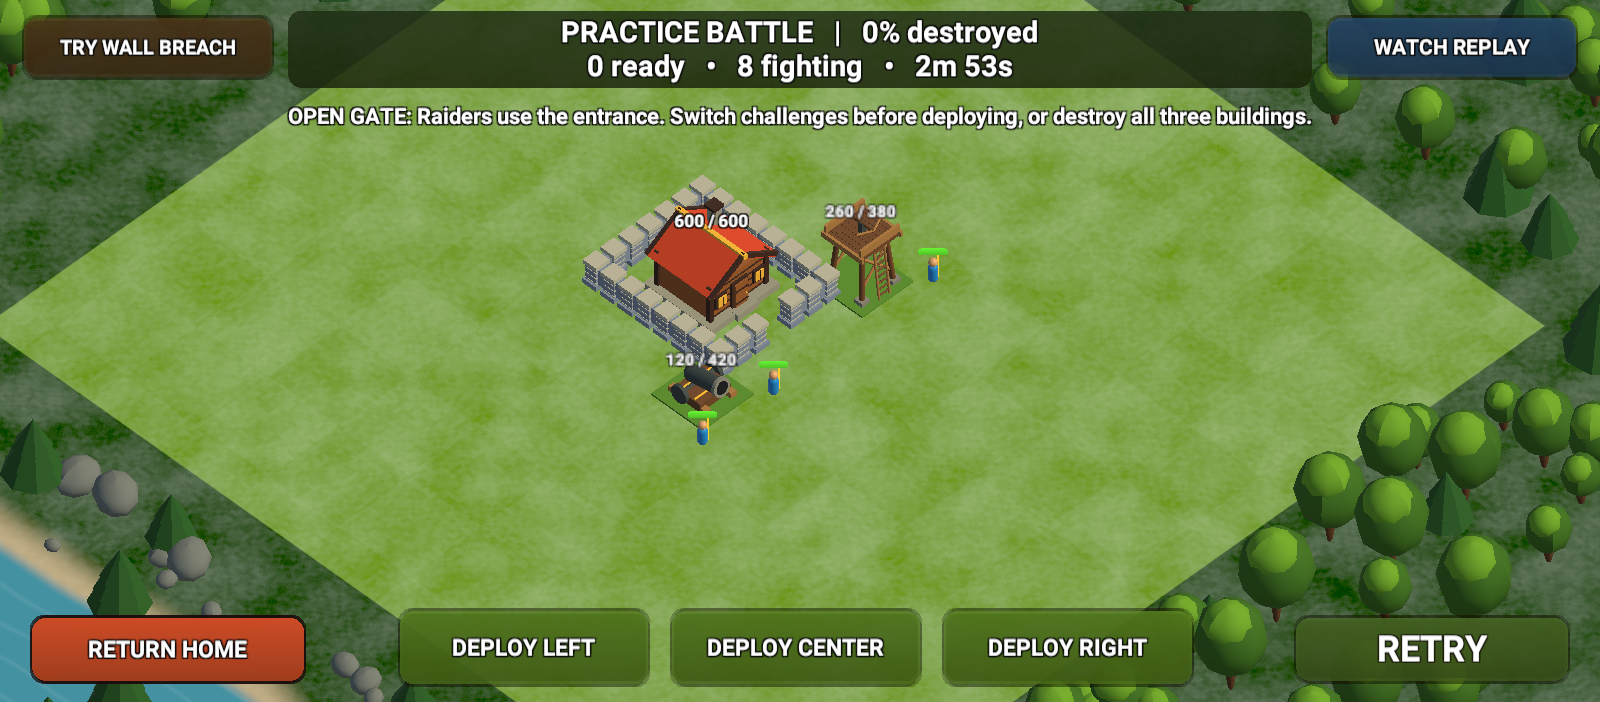
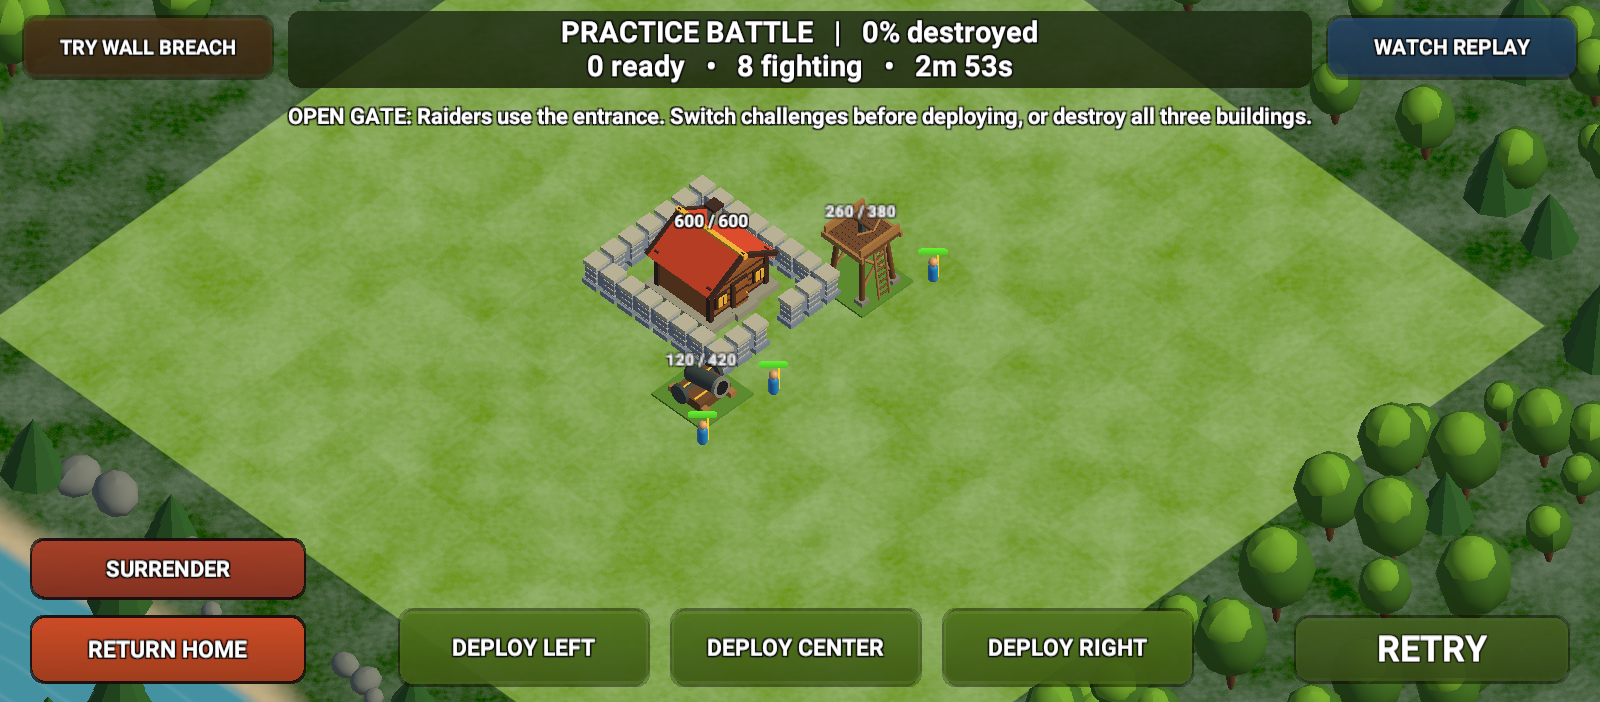
Add practice star scoring, detailed results and replayable surrender

Changed region(s): [[0.0, 0.7479, 0.2188, 0.8675]]

diff --git a/Assets/Editor/PracticeBattleValidation.cs b/Assets/Editor/PracticeBattleValidation.cs
@@ -41,6 +41,7 @@ public static class PracticeBattleValidation
     {
         NavigationChecks(false);NavigationChecks(true);
         ReplayChecks();
+        ScoreChecks();
         var first=new PracticeBattle();var second=new PracticeBattle();
         Check(!first.Deploy(-1) && !first.Deploy(3) && first.Remaining==8,"Invalid deployment lanes");
         for(int i=0;i<8;i++){Check(first.Deploy(i%3) && second.Deploy(i%3),"Legal deployments");}
@@ -52,7 +53,7 @@ public static class PracticeBattleValidation
             foreach(var strike in first.Strikes){if(strike.From<100)defenseHit=true;else raiderHit=true;}
         }
         Check(defenseHit && raiderHit,"Both sides attack");
-        Check(first.Outcome==PracticeOutcome.Victory && first.Destruction==100,"Practice encounter can be won");
+        Check(first.Outcome==PracticeOutcome.Victory && first.Destruction==100 && first.Stars==3,"Practice encounter can be won with three stars");
         string before=Snapshot(first);first.Step();first.Surrender();Check(Snapshot(first)==before && !first.Deploy(1),"Terminal battle cannot mutate");
         var idle=new PracticeBattle();for(int i=0;i<1800;i++)idle.Step();Check(idle.Outcome==PracticeOutcome.Timeout && idle.Destruction==0,"Undeployed army times out");
         var surrender=new PracticeBattle();surrender.Deploy(1);surrender.Surrender();Check(surrender.Outcome==PracticeOutcome.Surrendered && !surrender.Deploy(1),"Surrender closes commands");
@@ -81,6 +82,21 @@ public static class PracticeBattleValidation
         Check(battle.Outcome==PracticeOutcome.Victory && entered,"Route reaches enclosed hall and replans after breach");
         Check(wallHit==sealedWalls,"Open entrance is preferred; sealed walls require a breach");
         Check(battle.Destruction==100,"Surviving walls do not prevent full destruction score");
+    }
+    static void ScoreChecks()
+    {
+        int[] expected={0,1,0,2,0,2,1,3};
+        for(int mask=0;mask<8;mask++)
+        {
+            var battle=new PracticeBattle();
+            for(int i=0;i<3;i++)if((mask&(1<<i))!=0)battle.Buildings[i].HitPoints=0;
+            Check(battle.Stars==expected[mask],"Independent Town Hall, half-destruction and full-destruction stars");
+            foreach(var b in battle.Buildings)if(b.Kind=="Wall")b.HitPoints=0;
+            Check(battle.Stars==expected[mask],"Wall destruction does not award stars");
+            battle.Surrender();Check(battle.Stars==expected[mask],"Surrender retains earned score");
+        }
+        var army=new PracticeBattle();army.Deploy(0);army.Deploy(1);army.Raiders[0].HitPoints=0;
+        Check(army.Survivors==1 && army.Raiders.Count==2 && army.Remaining==6,"Results distinguish deployed, survivors and reserves");
     }
     static void ReplayChecks()
     {
@@ -142,9 +158,11 @@ public static class PracticeBattleValidation
             {
                 if(game.CurrentPracticeBattle.Outcome==PracticeOutcome.Running)return;
                 Check(game.CurrentPracticeBattle.Outcome==PracticeOutcome.Victory,"Real-time practice victory");Capture("practice-results.png");
+                Check(GameObject.Find("Practice Results Text").GetComponent<Text>().text.Contains("3 / 3 STARS"),"Victory results display stars");
                 Check(JsonUtility.ToJson(game.State)==SessionState.GetString("PracticeBattle.Home","") && PlayerPrefs.GetString(VillageSave.Key)==SessionState.GetString("PracticeBattle.Save",""),"Battle cannot mutate home or saved economy");
                 Click("Watch Practice Replay");Check(game.WatchingPracticeReplay && !GameObject.Find("Deploy Raider 0").GetComponent<Button>().interactable,"Replay locks manual deployment");
                 int count=game.CurrentPracticeBattle.Raiders.Count;game.DeployPracticeRaider(1);Check(count==game.CurrentPracticeBattle.Raiders.Count,"Direct deployment rejected during replay");
+                game.SurrenderPracticeBattle();Check(game.CurrentPracticeBattle.Outcome==PracticeOutcome.Running,"Surrender cannot interrupt replay");
                 SessionState.SetInt("PracticeBattle.Step",3);return;
             }
             if(step==3)
@@ -180,8 +198,22 @@ public static class PracticeBattleValidation
                 Check(game.CurrentPracticeBattle.SealedEnclosure,"Retry retains selected challenge");
                 Click("Return From Practice");Check(!game.PracticeOpen && !game.cameraController.InputBlocked && GameObject.Find("Shop")!=null,"Return restores village and camera");
                 Check(JsonUtility.ToJson(game.State)==SessionState.GetString("PracticeBattle.Home",""),"Returning does not change village state");
-                Click("Attack Menu");Click("Deploy Raider 0");Click("Return From Practice");Check(!game.PracticeOpen,"Early return abandons encounter safely");
-                Finish("PASS: challenge selection and active-attack guard; sealed challenge victory and wall destruction; challenge-aware retry/replay; per-tick replay equality for open/sealed layouts; timed commands; surrender/timeout replay; state mismatch detection; replay UI and deployment lock; replay save preservation; entrance routing; sealed-wall breach and replanning; footprint collision checks; walls excluded from victory score; fixed-tick repeatability; deployment limits; defense range/damage/cooldown; both sides attack; victory/defeat/timeout/surrender; terminal-state guard; real-time Attack/deploy/results/retry/return UI; exact home-state and save preservation. Unity "+Application.unityVersion+". No rewards, multiplayer or phone validation.",0);
+                Click("Attack Menu");Click("Deploy Raider 0");SessionState.SetInt("PracticeBattle.Step",7);return;
+            }
+            if(step==7)
+            {
+                if(game.CurrentPracticeBattle.Tick<15)return;
+                Click("Surrender Practice");Check(game.PracticeOpen && game.CurrentPracticeBattle.Outcome==PracticeOutcome.Surrendered,"Surrender opens results without leaving battle");
+                Check(GameObject.Find("Practice Results Text").GetComponent<Text>().text.Contains("1 deployed"),"Surrender results show deployed army");
+                Capture("practice-surrender.png");Click("Watch Practice Replay");SessionState.SetInt("PracticeBattle.Step",8);return;
+            }
+            if(step==8)
+            {
+                if(game.CurrentPracticeBattle.Outcome==PracticeOutcome.Running)return;
+                Check(game.PracticeReplayMatches && game.CurrentPracticeBattle.Outcome==PracticeOutcome.Surrendered,"Surrendered UI replay matches original");
+                Click("Retry Practice");Check(GameObject.Find("Practice Results")==null && GameObject.Find("Surrender Practice")!=null,"Retry hides results and restores surrender");
+                Click("Deploy Raider 0");Click("Return From Practice");Check(!game.PracticeOpen,"Early return abandons encounter safely");
+                Finish("PASS: all star combinations and wall exclusion; survivor counts; victory results; surrender/results/replay/retry UI; replay surrender guard; challenge selection and active-attack guard; sealed challenge victory and wall destruction; challenge-aware retry/replay; per-tick replay equality for open/sealed layouts; timed commands; surrender/timeout replay; state mismatch detection; replay UI and deployment lock; replay save preservation; entrance routing; sealed-wall breach and replanning; footprint collision checks; walls excluded from victory score; fixed-tick repeatability; deployment limits; defense range/damage/cooldown; both sides attack; victory/defeat/timeout/surrender; terminal-state guard; real-time Attack/deploy/results/retry/return UI; exact home-state and save preservation. Unity "+Application.unityVersion+". No rewards, multiplayer or phone validation.",0);
             }
         }
         catch(Exception e){Debug.LogException(e);Finish("FAIL: "+e,1);}

diff --git a/Assets/Scripts/UI/VillagePracticeBattle.cs b/Assets/Scripts/UI/VillagePracticeBattle.cs
@@ -10,8 +10,9 @@ namespace Kingdoms.UI
         PracticeReplay practiceReplay;
         GameObject practiceWorld,practiceCanvas;
         RectTransform practiceSafe;
-        Text practiceStatus,practiceInstructions;
-        Button practiceRetry,practiceWatch,practiceChallenge;
+        Text practiceStatus,practiceInstructions,practiceResultsText;
+        GameObject practiceResults;
+        Button practiceRetry,practiceWatch,practiceChallenge,practiceSurrender;
         bool practiceSealedChallenge;
         readonly List<Button> practiceDeployButtons=new List<Button>();
         readonly Dictionary<int,GameObject> practiceModels=new Dictionary<int,GameObject>();
@@ -48,6 +49,10 @@ namespace Kingdoms.UI
                 ReferenceText(button.GetComponentInChildren<Text>(),23,Color.white);button.onClick.AddListener(()=>DeployPracticeRaider(lane));practiceDeployButtons.Add(button);
             }
             var back=Button("Return From Practice",practiceSafe,"RETURN HOME",new Vector2(.02f,.03f),new Vector2(.19f,.12f),new Color(.8f,.3f,.15f));ReferenceText(back.GetComponentInChildren<Text>(),23,Color.white);back.onClick.AddListener(ClosePracticeBattle);
+            practiceSurrender=Button("Surrender Practice",practiceSafe,"SURRENDER",new Vector2(.02f,.15f),new Vector2(.19f,.23f),new Color(.65f,.25f,.16f));
+            ReferenceText(practiceSurrender.GetComponentInChildren<Text>(),22,Color.white);practiceSurrender.onClick.AddListener(SurrenderPracticeBattle);
+            practiceResults=Panel("Practice Results",practiceSafe,new Vector2(.25f,.17f),new Vector2(.75f,.39f),new Color(.12f,.18f,.08f,.96f)).gameObject;
+            practiceResultsText=Label("Practice Results Text",practiceResults.transform,"",25,Color.white);ReferenceText(practiceResultsText,25,Color.white);
             practiceRetry=Button("Retry Practice",practiceSafe,"RETRY",new Vector2(.81f,.03f),new Vector2(.98f,.12f),new Color(.45f,.64f,.24f));practiceRetry.onClick.AddListener(ResetPracticeBattle);
             practiceWatch=Button("Watch Practice Replay",practiceSafe,"WATCH REPLAY",new Vector2(.83f,.89f),new Vector2(.985f,.975f),new Color(.22f,.45f,.65f));
             ReferenceText(practiceWatch.GetComponentInChildren<Text>(),21,Color.white);practiceWatch.onClick.AddListener(WatchPracticeReplay);
@@ -66,6 +71,11 @@ namespace Kingdoms.UI
 
         public void ResetPracticeBattle()
         {StartPracticeBattle(null);}
+        public void SurrenderPracticeBattle()
+        {
+            if(practiceBattle==null || WatchingPracticeReplay || practiceBattle.Outcome!=PracticeOutcome.Running)return;
+            practiceBattle.Surrender();RefreshPracticeBattle();
+        }
         public bool SelectPracticeChallenge(bool sealedWalls)
         {
             if(practiceBattle==null || (practiceBattle.Outcome==PracticeOutcome.Running && (WatchingPracticeReplay || practiceBattle.Remaining<PracticeBattle.ArmySize)))return false;
@@ -161,6 +171,15 @@ namespace Kingdoms.UI
             foreach(var button in practiceDeployButtons)button.interactable=running && !WatchingPracticeReplay && practiceBattle.Remaining>0;
             practiceRetry.interactable=!running;
             practiceWatch.interactable=!running;
+            practiceSurrender.gameObject.SetActive(running && !WatchingPracticeReplay);
+            practiceResults.SetActive(!running);
+            if(!running)
+            {
+                practiceResults.transform.SetAsLastSibling();
+                practiceResultsText.text=(practiceSealedChallenge ? "WALL BREACH" : "OPEN GATE")+"  |  "+practiceBattle.Stars+" / 3 STARS"
+                    +"\n"+practiceBattle.DestroyedBuildings+" / "+practiceBattle.TotalBuildings+" buildings destroyed  |  "+practiceBattle.Destruction+"%"
+                    +"\n"+practiceBattle.Raiders.Count+" deployed  |  "+practiceBattle.Survivors+" survived  |  "+Duration(practiceBattle.Tick/10)+" elapsed";
+            }
             practiceChallenge.interactable=!running || (!WatchingPracticeReplay && practiceBattle.Remaining==PracticeBattle.ArmySize);
             practiceChallenge.GetComponentInChildren<Text>().text=practiceSealedChallenge ? "TRY OPEN GATE" : "TRY WALL BREACH";
             if(!running)practiceInstructions.text=WatchingPracticeReplay

diff --git a/Assets/Scripts/Core/PracticeBattle.cs b/Assets/Scripts/Core/PracticeBattle.cs
@@ -48,7 +48,13 @@ namespace Kingdoms
         public int Tick {get;private set;}
         public int Remaining=>ArmySize-raiders.Count;
         public PracticeOutcome Outcome {get;private set;}=PracticeOutcome.Running;
-        public int Destruction=>buildings.FindAll(b=>b.Kind!="Wall" && !b.Alive).Count*100/3;
+        public int DestroyedBuildings=>buildings.FindAll(b=>b.Kind!="Wall" && !b.Alive).Count;
+        public int TotalBuildings=>buildings.FindAll(b=>b.Kind!="Wall").Count;
+        public int Destruction=>DestroyedBuildings*100/TotalBuildings;
+        public int Survivors=>raiders.FindAll(r=>r.Alive).Count;
+        // Practice score only: each independent objective earns one star, with no economy reward.
+        public int Stars=>(buildings.Exists(b=>b.Kind=="TownHall" && !b.Alive) ? 1 : 0)
+            +(DestroyedBuildings*2>=TotalBuildings ? 1 : 0)+(DestroyedBuildings==TotalBuildings ? 1 : 0);
         const int GridSize=73, GridStep=50, GridOffset=1800;
         sealed class Route { public Entity Target; public readonly Queue<int> Cells=new Queue<int>(); }
         readonly Dictionary<int,Route> routes=new Dictionary<int,Route>();

diff --git a/BEGINNER_GUIDE.md b/BEGINNER_GUIDE.md
@@ -45,7 +45,7 @@ The project is a Clash of Clans-inspired village prototype with its own Kingdoms
 | Economy | Gold and elixir production, collection, storage limits and offline accrual |
 | Progression | Two builders, timed upgrades through level 3, Town Hall limits, confirmed cancellation with a storage-capped 50% refund |
 | Defenses | Purchase, move, inspect range and upgrade; home defenses remain idle |
-| Practice battle | Eight raiders, three enemy buildings, walls, entrance routing, wall breach logic, results, watch replay, retry and return |
+| Practice battle | Eight raiders, three enemy buildings, walls, entrance routing, wall breach logic, star scoring, surrender, results, watch replay, retry and return |
 | Persistence | Local version 3 village saves; migrations from versions 1 and 2 |
 | Mobile setup | Welcome scene first, village second, landscape orientation, Android IL2CPP/ARM64 settings |
 
@@ -701,3 +701,20 @@ Attack opens **Open Gate**, where raiders use the entrance in the Town Hall encl
 You can change challenges before the first deployment or after a result. Switching starts a fresh encounter and replaces the previous replay. The switch is disabled during an active attack and during replay playback. **Retry** keeps the current challenge; **Watch Replay** reconstructs the same enclosure. Returning home and opening Attack again defaults to Open Gate. Challenge selection is not saved.
 
 Validation covers selecting both layouts, rejecting mid-attack changes, winning the sealed challenge with wall destruction, replaying both layouts, keeping the selected challenge on retry, and preserving the home save. See [challenge preview](PracticePreviews/practice-wall-challenge.png) and [validation report](PracticeBattleValidation.txt). No APK rebuild or phone testing was performed.
+
+
+### Battle results and surrender
+
+Practice results now show **stars out of three**, buildings destroyed, destruction percentage, deployed raiders, surviving deployed raiders, and elapsed simulation time. Stars are practice scores only; they do not grant loot, trophies or progression.
+
+| Objective | Stars earned |
+| --- | --- |
+| Destroy the Town Hall | 1 |
+| Destroy at least half of the non-wall buildings | 1 |
+| Destroy all non-wall buildings | 1 |
+
+With three buildings, half destruction requires two destroyed buildings. Destroying only the Town Hall earns one star; destroying both defenses also earns one star. Destroying the Town Hall plus one defense earns two; destroying all three earns three. Walls never count toward these objectives. Full destruction remains the condition for Victory; stars do not turn a surrendered or timed-out encounter into a victory.
+
+**Try it:** Open Attack, deploy a raider, wait briefly, then press **Surrender** at the lower left. Combat stops and the results panel appears. Choose Watch Replay to reproduce the attack up to that surrender, Retry to reset the selected challenge, or Return Home. Surrender is unavailable during replay and after results. Returning home directly still discards the encounter without showing its results.
+
+The score is derived from combat state in [PracticeBattle.cs](Assets/Scripts/Core/PracticeBattle.cs); the results panel and surrender control live in [VillagePracticeBattle.cs](Assets/Scripts/UI/VillagePracticeBattle.cs). Validation covers all eight combinations of the three destroyed buildings, wall exclusion, survivors versus undeployed reserves, victory results, surrender/replay/retry controls, and the existing combat/save checks. See [surrender preview](PracticePreviews/practice-surrender.png) and [PracticeBattleValidation.txt](PracticeBattleValidation.txt). No APK was rebuilt or phone testing performed for this update.

diff --git a/PRACTICE_BATTLE_PROGRESS.md b/PRACTICE_BATTLE_PROGRESS.md
@@ -36,3 +36,10 @@ The recording lasts only for the current encounter in memory. There is no disk f
 Attack defaults to Open Gate. The upper-left Try Wall Breach / Try Open Gate button switches the fixed enclosure before deployment or after a result. Once a raider is deployed, switching is locked until the result; active replay also locks it. Wall Breach seals the entrance and requires a wall to be destroyed to reach the Town Hall. Army, defense stats and victory rules remain the same. Retry retains the selection and replay records it. Returning home discards it. Both challenges are free practice without progression rewards.
 
 Play-mode validation now completes both challenges, checks wall destruction in the sealed layout, verifies both replays and retry behavior, and confirms the home state and saved JSON remain intact.
+
+
+## Scoring and surrender
+
+Results show 0?3 stars, destroyed/total non-wall buildings, destruction percentage, deployed count, surviving deployed count and elapsed simulation time. One independent star is awarded for the Town Hall, at least 50% non-wall destruction, and 100% destruction. For this three-building layout the halfway objective requires two destroyed buildings. Walls never contribute; undeployed reserves are not counted as survivors. Scores are informational and award no economy rewards. Only destroying all three buildings produces Victory.
+
+Surrender stops a live attack immediately and displays its current results while keeping the battlefield open for replay, retry or return. Its tick is preserved in the recording, so replay ends at the same moment with the same score. Replay ignores manual surrender. Return Home continues to abandon and close an encounter directly. Validation checks every building-destruction combination, wall exclusion, survivor counts and the real surrender/results/replay/retry UI.

diff --git a/README.md b/README.md
@@ -8,7 +8,7 @@ Latest development: [the supplied screenshot reference implementation](SCREENSHO
 
 ## Architecture
 
-Newest playable addition: [the practice battle](PRACTICE_BATTLE_PROGRESS.md). Tap Attack to deploy eight raiders against a walled practice Town Hall, Cannon and Archer Tower, then watch a replay, retry or return home. Choose Open Gate or Wall Breach before deployment. Raiders route through openings and break sealed walls; retry and replay retain the challenge. [Defense village progression](DEFENSE_VILLAGE_PROGRESS.md) supports purchases, upgrades and persistence. Full battles and multiplayer remain outstanding.
+Newest playable addition: [the practice battle](PRACTICE_BATTLE_PROGRESS.md). Tap Attack to deploy eight raiders against a walled practice Town Hall, Cannon and Archer Tower, then watch a replay, retry or return home. Choose Open Gate or Wall Breach before deployment. Raiders route through openings and break sealed walls; retry and replay retain the challenge. Results show three-star practice scoring, destruction and army statistics; Surrender ends an attack with replayable results. [Defense village progression](DEFENSE_VILLAGE_PROGRESS.md) supports purchases, upgrades and persistence. Full battles and multiplayer remain outstanding.
 Modular architecture built on Unity 6 and URP.
 
 ## Controls

diff --git a/GAME_DEVELOPMENT_PHASES.md b/GAME_DEVELOPMENT_PHASES.md
@@ -151,6 +151,7 @@ Dependencies: 4–6.
 
 - [ ] Author several AI villages and a guided first attack.
 - [ ] Implement scouting, battle start, countdown, surrender, destruction percentage, and scoring rules.
+  - Practice now includes surrender with results and three independent stars (Town Hall, 50%, 100%), with army and elapsed-time statistics. Scouting and the complete attack flow remain outstanding.
 - [ ] Calculate loot, victory rewards, defeat outcomes, and first-completion rewards.
 - [ ] Add results UI, retry/return flow, and replay playback.
 - [ ] Teach building, collection, upgrading, and deployment through resumable tutorial steps.
